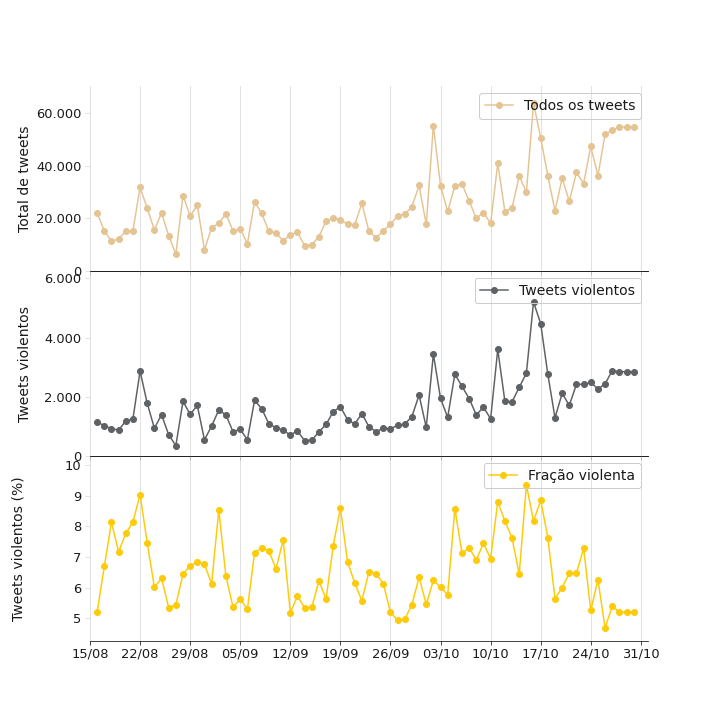
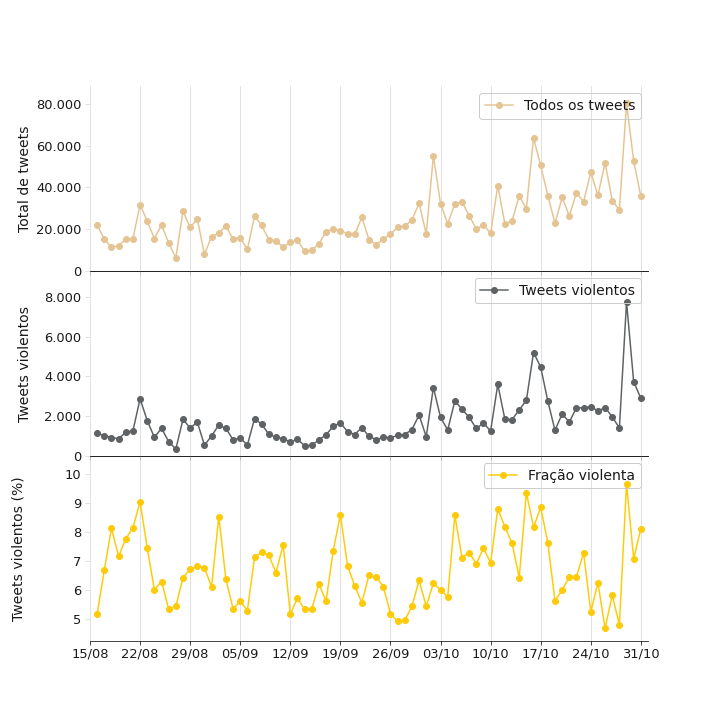
Auto-update webpage data >> 2022-11-01_04:04:33

diff --git a/assets/js/data.js b/assets/js/data.js
@@ -1,1 +1,1 @@
-data = '{"total_counts": 125449, "yesterday_counts": 2846, "time_series_plot": "../gitpage/assets/img/graficos/tweets_agressivos_por_dia_feminino.png", "last_update": "2022-10-31T04:04:19"}'
+data = '{"total_counts": 131782, "yesterday_counts": 2902, "time_series_plot": "../gitpage/assets/img/graficos/tweets_agressivos_por_dia_feminino.png", "last_update": "2022-11-01T04:04:33"}'
